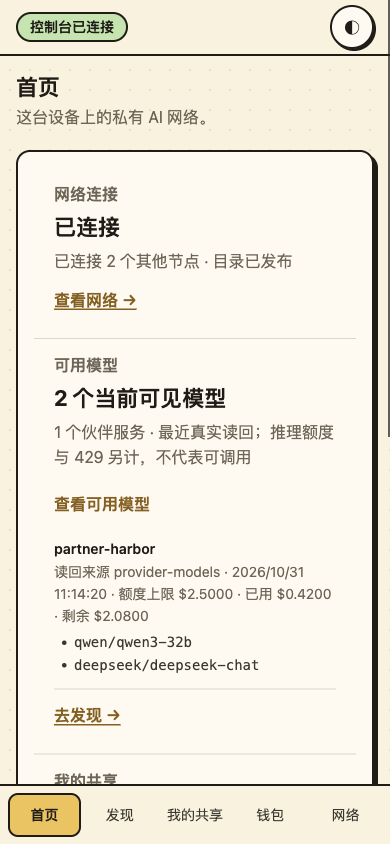
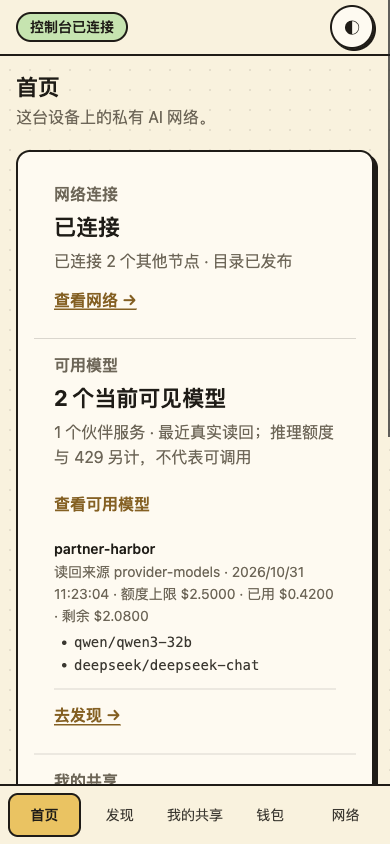
fix(console): require a provable evidence window and a connected provider
- readAt must exist, parse and not be in the future; expiresAt must exist,
  parse, be >= readAt, be in the future and fit the backend's 5 minute TTL.
  A missing/invalid/future readAt or an over-long window stays unknown; a
  future expiry is normal TTL and still counts.
- paused, degraded, disabled, identity-mismatch or revoked providers never
  count toward the home model total; their historical list is shown only as
  diagnosis and labelled as such, and counting resumes only with a new
  current readback.
- limit.spent still leaves the list visible and is reported separately.
- behaviour tests add future/invalid readAt, expiry before readAt, over-window,
  exact 5 minute boundary, past expiry, future expiry, all inactive statuses,
  paused+connected mixing and resume; docs and paused fixture screenshot
  updated.

Changed region(s): [[0.3077, 0.6777, 0.8615, 0.7085], [0.1846, 0.6777, 0.2769, 0.7085]]

diff --git a/plugin/console/providers.test.js b/plugin/console/providers.test.js
@@ -406,97 +406,113 @@ test("all shipped workflow DOM avoids HTML injection, remote resources and brows
 });
 
 describe("available-model evidence (simulated status.providers, no backend)", () => {
+  const NOW = Date.parse("2026-10-31T00:10:00.000Z");
+  const iso = (offsetMs) => new Date(NOW + offsetMs).toISOString();
   const evidence = (over = {}) => ({
-    status: "current", source: "provider-models", readAt: "2026-10-31T00:00:00.000Z", expiresAt: "2099-01-01T00:00:00.000Z",
+    status: "current", source: "provider-models", readAt: iso(-60_000), expiresAt: iso(4 * 60_000),
     models: ["qwen/qwen3-32b", "deepseek/deepseek-chat"], modelCount: 2, callable: "yes",
     identity: { hostname: "partner-harbor", virtualIpv4: null, fingerprint: null },
     generation: 3, keyRef: "provider-keys.json#p1", keyGeneration: 2, error: null, ...over,
   });
   const provider = (over = {}) => ({ id: "p1", status: "connected", fingerprint: { hostname: "partner-harbor" }, modelsEvidence: evidence(), ...over });
+  const summaryOf = (rows) => modelEvidenceSummary(rows, NOW);
 
-  test("only current, callable evidence with a finite count counts", () => {
-    const summary = modelEvidenceSummary([provider()]);
+  test("only a current, fresh, connected record with finite count counts", () => {
+    const summary = summaryOf([provider()]);
     expect(summary).toMatchObject({ state: "current", count: 2, providers: 1 });
     expect(summary.label).toBe("2 个当前可见模型");
     expect(summary.detail).toContain("最近真实读回");
     expect(summary.detail).toContain("推理额度与 429 另计");
     expect(summary.entries[0].models).toEqual(["qwen/qwen3-32b", "deepseek/deepseek-chat"]);
-    expect(modelEvidenceSummary([provider(), provider({ id: "p2", modelsEvidence: evidence({ modelCount: 5, models: [] }) })])).toMatchObject({ count: 7, providers: 2 });
+    expect(summary.entries[0].counted).toBeTrue();
+    expect(summaryOf([provider(), provider({ id: "p2", modelsEvidence: evidence({ modelCount: 5, models: [] }) })])).toMatchObject({ count: 7, providers: 2 });
   });
 
   test("legacy provider.models and authorization lists never become a callable count", () => {
-    // A legacy snapshot exists, but there is no evidence record at all.
-    expect(modelEvidenceSummary([{ id: "p1", status: "connected", models: ["a/one", "b/two"] }]))
+    expect(summaryOf([{ id: "p1", status: "connected", models: ["a/one", "b/two"] }]))
       .toMatchObject({ state: "unknown", count: 0, label: "尚未确认" });
-    expect(modelEvidenceSummary([{ id: "p1", models: ["a/one"], modelsEvidence: evidence({ status: "unknown", callable: "unknown", modelCount: null }) }]))
+    expect(summaryOf([{ id: "p1", models: ["a/one"], modelsEvidence: evidence({ status: "unknown", callable: "unknown", modelCount: null }) }]))
       .toMatchObject({ state: "unknown", count: 0 });
-    expect(modelEvidenceSummary([{ id: "p1", models: ["a/one"], modelsEvidence: evidence({ callable: "unknown" }) }]))
+    expect(summaryOf([{ id: "p1", models: ["a/one"], modelsEvidence: evidence({ callable: "unknown" }) }]))
       .toMatchObject({ state: "unknown", count: 0 });
-    expect(modelEvidenceSummary([{ id: "p1", models: ["a/one"], modelsEvidence: evidence({ modelCount: null }) }]))
+    expect(summaryOf([{ id: "p1", models: ["a/one"], modelsEvidence: evidence({ modelCount: null }) }]))
       .toMatchObject({ state: "unknown", count: 0 });
   });
 
   test("stale evidence shows unknown plus the exact next step", () => {
-    const summary = modelEvidenceSummary([provider({ modelsEvidence: evidence({ status: "stale" }) })]);
+    const summary = summaryOf([provider({ modelsEvidence: evidence({ status: "stale" }) })]);
     expect(summary).toMatchObject({ state: "stale", count: 0, label: "模型清单已过期" });
     expect(summary.detail).toContain("重新读取可用模型");
     expect(summary.detail).toContain("过期清单不算可用");
-    expect(modelEvidenceSummary([])).toMatchObject({ state: "none", label: "尚未连接" });
+    expect(summaryOf([])).toMatchObject({ state: "none", label: "尚未连接" });
   });
 
-  test("missing or unparsable expiry is treated as unknown, not current", () => {
-    expect(modelEvidenceSummary([provider({ modelsEvidence: evidence({ expiresAt: null }) })])).toMatchObject({ state: "unknown", count: 0 });
-    expect(modelEvidenceSummary([provider({ modelsEvidence: evidence({ expiresAt: "not-a-date" }) })])).toMatchObject({ state: "unknown", count: 0 });
-    expect(modelEvidenceSummary([provider({ modelsEvidence: evidence({ expiresAt: "2999-01-01T00:00:00.000Z" }) })])).toMatchObject({ state: "current", count: 2 });
+  test("readAt must be a real past time inside a 5 minute window", () => {
+    // exactly 5 minutes is the contract boundary and is accepted
+    expect(summaryOf([provider({ modelsEvidence: evidence({ readAt: iso(-4 * 60_000), expiresAt: iso(60_000) }) })])).toMatchObject({ state: "current", count: 2 });
+    // future readAt is not trusted by this client, even if the backend tolerates a small skew
+    expect(summaryOf([provider({ modelsEvidence: evidence({ readAt: iso(60_000), expiresAt: iso(5 * 60_000) }) })])).toMatchObject({ state: "unknown", count: 0 });
+    // invalid or missing readAt
+    expect(summaryOf([provider({ modelsEvidence: evidence({ readAt: "not-a-date" }) })])).toMatchObject({ state: "unknown", count: 0 });
+    expect(summaryOf([provider({ modelsEvidence: evidence({ readAt: null }) })])).toMatchObject({ state: "unknown", count: 0 });
+    // expiry before readAt
+    expect(summaryOf([provider({ modelsEvidence: evidence({ readAt: iso(60_000), expiresAt: iso(30_000) }) })])).toMatchObject({ state: "unknown", count: 0 });
+    // window longer than the backend TTL is unknown, not silently current
+    expect(summaryOf([provider({ modelsEvidence: evidence({ readAt: iso(-6 * 60_000), expiresAt: iso(60_000) }) })])).toMatchObject({ state: "unknown", count: 0 });
+    // an ordinary expiry in the past is stale
+    expect(summaryOf([provider({ modelsEvidence: evidence({ readAt: iso(-6 * 60_000), expiresAt: iso(-60_000) }) })])).toMatchObject({ state: "stale", count: 0 });
+    // missing or unparsable expiry
+    expect(summaryOf([provider({ modelsEvidence: evidence({ expiresAt: null }) })])).toMatchObject({ state: "unknown", count: 0 });
+    expect(summaryOf([provider({ modelsEvidence: evidence({ expiresAt: "not-a-date" }) })])).toMatchObject({ state: "unknown", count: 0 });
+    // a future expiry is normal TTL and still counts
+    expect(summaryOf([provider({ modelsEvidence: evidence({ readAt: iso(-60_000), expiresAt: iso(4 * 60_000) }) })])).toMatchObject({ state: "current", count: 2 });
   });
 
-  test("a page left open past expiresAt stops counting the old list", () => {
-    const fresh = evidence({ expiresAt: "2026-10-31T00:05:00.000Z" });
-    const now = Date.parse("2026-10-31T00:04:59.000Z");
-    expect(modelEvidenceSummary([provider({ modelsEvidence: fresh })], now)).toMatchObject({ state: "current", count: 2 });
-    const later = Date.parse("2026-10-31T00:05:01.000Z");
-    const expired = modelEvidenceSummary([provider({ modelsEvidence: fresh })], later);
-    expect(expired).toMatchObject({ state: "stale", count: 0, label: "模型清单已过期" });
-    expect(expired.detail).toContain("重新读取可用模型");
+  test("paused, disabled, degraded or identity-mismatched connections do not count", () => {
+    for (const status of ["paused", "disabled", "degraded", "identity-mismatch", "revoked"]) {
+      const summary = summaryOf([provider({ status })]);
+      expect(summary, status).toMatchObject({ state: "inactive", count: 0, label: "0 个当前可见模型" });
+      expect(summary.detail, status).toContain("恢复连接并重新读取");
+      expect(summary.entries[0]).toMatchObject({ counted: false, status });
+      expect(summary.entries[0].models.length, status).toBeGreaterThan(0);
+    }
+    // after resuming, only a new current readback counts again
+    expect(summaryOf([provider()])).toMatchObject({ state: "current", count: 2 });
+  });
+
+  test("a paused provider does not hide a connected one", () => {
+    const summary = summaryOf([provider({ id: "paused", status: "paused" }), provider({ id: "live", modelsEvidence: evidence({ modelCount: 3, models: ["c/three"] }) })]);
+    expect(summary).toMatchObject({ state: "current", count: 3, providers: 1 });
+    expect(summary.detail).toContain("另有 1 个伙伴连接已暂停或降级，仅诊断");
+    expect(summary.entries.filter((row) => row.counted === false)).toHaveLength(1);
   });
 
   test("a visible list never overwrites an exhausted or unread quota", () => {
-    const spent = modelEvidenceSummary([{ ...provider(), limit: { costLimit: 2, cost: 2, costLeft: 0, spent: true } }]);
+    const spent = summaryOf([{ ...provider(), limit: { costLimit: 2, cost: 2, costLeft: 0, spent: true } }]);
     expect(spent).toMatchObject({ state: "current", count: 2, label: "2 个当前可见模型" });
     expect(spent.detail).toContain("额度已用尽（原生 429）");
     expect(spent.entries[0]).toMatchObject({ quota: "spent" });
     expect(spent.entries[0].quotaText).toContain("429");
 
-    const unknown = modelEvidenceSummary([provider()]);
+    const unknown = summaryOf([provider()]);
     expect(unknown.detail).toContain("额度待确认");
     expect(unknown.entries[0]).toMatchObject({ quota: "unknown" });
   });
 
   test("an empty or rejected readback gets its own next step, never a zero", () => {
-    const empty = modelEvidenceSummary([provider({ modelsEvidence: evidence({ models: [], modelCount: 0 }) })]);
+    const empty = summaryOf([provider({ modelsEvidence: evidence({ models: [], modelCount: 0 }) })]);
     expect(empty).toMatchObject({ state: "empty", count: 0, label: "已连接，但没有发现模型" });
     expect(empty.detail).toContain("核对模型范围与额度");
 
-    const denied = modelEvidenceSummary([provider({ modelsEvidence: evidence({ status: "unknown", callable: "no", modelCount: null, error: "401 rejected" }) })]);
+    const denied = summaryOf([provider({ modelsEvidence: evidence({ status: "unknown", callable: "no", modelCount: null, error: "401 rejected" }) })]);
     expect(denied).toMatchObject({ state: "denied", count: 0, label: "授权未通过" });
     expect(denied.detail).toContain("401/撤销");
     expect(denied.detail).not.toContain("0 个");
   });
 
   test("a changed key only counts after a new current readback", () => {
-    const changed = modelEvidenceSummary([provider({ modelsEvidence: evidence({ status: "stale", keyGeneration: 3, generation: 1 }) })]);
-    expect(changed).toMatchObject({ state: "stale", count: 0 });
-    const reread = modelEvidenceSummary([provider({ modelsEvidence: evidence({ status: "current", keyGeneration: 3, generation: 2 }) })]);
-    expect(reread).toMatchObject({ state: "current", count: 2 });
-  });
-
-  test("one stale provider does not hide a current one, and current wins the label", () => {
-    const summary = modelEvidenceSummary([
-      provider({ id: "stale", modelsEvidence: evidence({ status: "stale" }) }),
-      provider({ id: "live", modelsEvidence: evidence({ modelCount: 3, models: ["c/three"] }) }),
-    ]);
-    expect(summary).toMatchObject({ state: "current", count: 3, providers: 1 });
-    expect(summary.entries).toHaveLength(1);
+    expect(summaryOf([provider({ modelsEvidence: evidence({ status: "stale", keyGeneration: 3, generation: 1 }) })])).toMatchObject({ state: "stale", count: 0 });
+    expect(summaryOf([provider({ modelsEvidence: evidence({ status: "current", keyGeneration: 3, generation: 2 }) })])).toMatchObject({ state: "current", count: 2 });
   });
 });
 
@@ -507,7 +523,10 @@ describe("explicit model readback (simulated backend response shape)", () => {
     base.status.providers = [structuredClone(providerView)];
     return base;
   };
-  const evidence = (over = {}) => ({ status: "current", source: "provider-models", readAt: "2026-10-31T00:00:00.000Z", expiresAt: "2099-01-01T00:00:00.000Z", models: ["qwen/qwen3-32b"], modelCount: 1, callable: "yes", identity: null, generation: 1, keyRef: "provider-keys.json#provider-1", keyGeneration: 1, error: null, ...over });
+  const evidence = (over = {}) => {
+    const now = Date.now();
+    return { status: "current", source: "provider-models", readAt: new Date(now - 60_000).toISOString(), expiresAt: new Date(now + 4 * 60_000).toISOString(), models: ["qwen/qwen3-32b"], modelCount: 1, callable: "yes", identity: null, generation: 1, keyRef: "provider-keys.json#provider-1", keyGeneration: 1, error: null, ...over };
+  };
 
   test("provider-models refreshes the console state exactly like the contract asks", async () => {
     let refreshes = 0;

diff --git a/plugin/console/providers.js b/plugin/console/providers.js
@@ -61,6 +61,9 @@ const statusNames = { connected: "已连接", verified: "身份已接受", unver
  * Only a current, unexpired evidence record for the current key/identity is
  * shown; quota is reported separately (native 429 / unknown / not read).
  */
+/** Mirrors the backend's 5 minute evidence TTL; the client only narrows trust. */
+const EVIDENCE_TTL_MS = 5 * 60 * 1000;
+
 function quotaEvidence(provider) {
   const limit = record(provider?.limit);
   const knownCap = typeof limit.costLimit === "number" && Number.isFinite(limit.costLimit);
@@ -75,36 +78,53 @@ export function modelEvidenceSummary(providers, now = Date.now()) {
   const rows = items(providers).map((provider) => {
     const evidence = record(provider?.modelsEvidence);
     const hostname = provider?.fingerprint?.hostname || provider?.hostname || provider?.id || "伙伴服务";
-    // The backend owns freshness; this guard only stops a page that has been
-    // open past expiresAt from showing an old list as current.
-    const rawExpiry = typeof evidence.expiresAt === "string" ? Date.parse(evidence.expiresAt) : NaN;
-    // A current record without a usable expiry cannot be proven fresh; stay
-    // conservative instead of trusting it forever.
-    const freshness = Number.isFinite(rawExpiry) ? (rawExpiry <= now ? "expired" : "fresh") : "unknown";
-    return { hostname, evidence, freshness, quota: quotaEvidence(provider) };
+    // The backend promises a 5 minute TTL. A record can only be trusted when
+    // both timestamps exist, are ordered, are not in the future and fit that
+    // window; everything else stays unknown rather than guessing freshness.
+    const readMs = typeof evidence.readAt === "string" ? Date.parse(evidence.readAt) : NaN;
+    const expMs = typeof evidence.expiresAt === "string" ? Date.parse(evidence.expiresAt) : NaN;
+    let freshness = "unknown";
+    if (Number.isFinite(readMs) && readMs <= now && Number.isFinite(expMs) && expMs >= readMs) {
+      if (expMs - readMs > EVIDENCE_TTL_MS) freshness = "unknown";
+      else freshness = expMs <= now ? "expired" : "fresh";
+    }
+    return {
+      hostname,
+      evidence,
+      freshness,
+      status: typeof provider?.status === "string" ? provider.status : "unknown",
+      quota: quotaEvidence(provider),
+    };
   });
   if (!rows.length) {
     return { state: "none", count: 0, providers: 0, entries: [], label: "尚未连接", detail: "还没有连接伙伴服务；在“发现”核对身份后申请模型。" };
   }
-  const usable = rows.filter((row) => row.evidence.status === "current" && row.freshness === "fresh" && row.evidence.callable === "yes" && typeof row.evidence.modelCount === "number" && Number.isFinite(row.evidence.modelCount) && row.evidence.modelCount >= 0);
-  const denied = rows.some((row) => row.evidence.callable === "no" && row.evidence.status !== "stale");
+  const eligible = rows.filter((row) => row.evidence.status === "current" && row.freshness === "fresh" && row.evidence.callable === "yes" && typeof row.evidence.modelCount === "number" && Number.isFinite(row.evidence.modelCount) && row.evidence.modelCount >= 0);
+  // A paused, disabled, degraded or identity-mismatched connection keeps its
+  // historical list for diagnosis, but it is not a current usable model source.
+  const usable = eligible.filter((row) => row.status === "connected");
+  const inactive = eligible.filter((row) => row.status !== "connected");
+  const entry = (row, counted) => ({
+    hostname: row.hostname,
+    count: row.evidence.modelCount,
+    models: items(row.evidence.models).filter((model) => typeof model === "string"),
+    readAt: typeof row.evidence.readAt === "string" ? row.evidence.readAt : null,
+    source: typeof row.evidence.source === "string" ? row.evidence.source : null,
+    quota: row.quota.state,
+    quotaText: row.quota.text,
+    counted,
+    status: row.status,
+  });
   if (usable.length) {
     const count = usable.reduce((total, row) => total + row.evidence.modelCount, 0);
     const spent = usable.some((row) => row.quota.state === "spent");
     const unknownQuota = usable.some((row) => row.quota.state === "unknown");
     const quotaNote = spent ? "；有伙伴额度已用尽（原生 429）" : unknownQuota ? "；额度待确认" : "";
-    const entries = usable.map((row) => ({
-      hostname: row.hostname,
-      count: row.evidence.modelCount,
-      models: items(row.evidence.models).filter((model) => typeof model === "string"),
-      readAt: typeof row.evidence.readAt === "string" ? row.evidence.readAt : null,
-      source: typeof row.evidence.source === "string" ? row.evidence.source : null,
-      quota: row.quota.state,
-      quotaText: row.quota.text,
-    }));
+    const pausedNote = inactive.length ? `；另有 ${inactive.length} 个伙伴连接已暂停或降级，仅诊断` : "";
     if (count === 0) {
       return {
-        state: "empty", count: 0, providers: usable.length, entries,
+        state: "empty", count: 0, providers: usable.length,
+        entries: [...usable.map((row) => entry(row, true)), ...inactive.map((row) => entry(row, false))],
         label: "已连接，但没有发现模型",
         detail: "真实读回成功但清单为空；请在共享方核对模型范围与额度，或稍后重新读取。",
       };
@@ -114,10 +134,21 @@ export function modelEvidenceSummary(providers, now = Date.now()) {
       count,
       providers: usable.length,
       label: `${count} 个当前可见模型`,
-      detail: `${usable.length} 个伙伴服务 · 最近真实读回；推理额度与 429 另计，不代表可调用${quotaNote}`,
-      entries,
+      detail: `${usable.length} 个伙伴服务 · 最近真实读回；推理额度与 429 另计，不代表可调用${quotaNote}${pausedNote}`,
+      entries: [...usable.map((row) => entry(row, true)), ...inactive.map((row) => entry(row, false))],
     };
   }
+  if (inactive.length) {
+    return {
+      state: "inactive",
+      count: 0,
+      providers: inactive.length,
+      entries: inactive.map((row) => entry(row, false)),
+      label: "0 个当前可见模型",
+      detail: "伙伴连接已暂停、降级或身份不匹配；恢复连接并重新读取后再计入，历史清单只作诊断。",
+    };
+  }
+  const denied = rows.some((row) => row.evidence.callable === "no" && row.evidence.status !== "stale");
   if (denied) {
     const stale = rows.some((row) => row.evidence.status === "stale" || row.freshness === "expired");
     return {

diff --git a/plugin/scripts/console-preview.ts b/plugin/scripts/console-preview.ts
@@ -9,6 +9,7 @@
  *   bun run plugin/scripts/console-preview.ts --scenario configured --port 61390
  *   bun run plugin/scripts/console-preview.ts --scenario first-run --port 61391
  *   bun run plugin/scripts/console-preview.ts --scenario stale --port 61392
+ *   bun run plugin/scripts/console-preview.ts --scenario paused --port 61394
  */
 import { readFileSync } from "node:fs";
 import { resolve } from "node:path";
@@ -192,7 +193,16 @@ function staleEvidenceState() {
   provider.modelsEvidence = { ...provider.modelsEvidence, status: "stale", callable: "unknown", modelCount: null, models: [], readAt: "2026-10-30T21:00:00.000Z", expiresAt: "2026-10-30T21:05:00.000Z" };
   return state;
 }
-let current: any = scenario === "first-run" ? firstRunState() : scenario === "stale" ? staleEvidenceState() : configuredState();
+function pausedEvidenceState() {
+  const state = configuredState();
+  // Historical list kept for diagnosis, but the connection is not usable.
+  state.status.providers[0].status = "paused";
+  return state;
+}
+let current: any = scenario === "first-run" ? firstRunState()
+  : scenario === "stale" ? staleEvidenceState()
+  : scenario === "paused" ? pausedEvidenceState()
+  : configuredState();
 const csrf = "0".repeat(32);
 const instance = "preview-instance";
 

diff --git a/plugin/console/app.js b/plugin/console/app.js
@@ -313,7 +313,7 @@ function renderHome(state) {
   if (evidenceBox && evidenceList) {
     const summary = modelEvidenceSummary(list(object(state.status).providers));
     evidenceList.replaceChildren();
-    const usable = summary.state === "current" ? summary.entries : [];
+    const usable = ["current", "empty", "inactive"].includes(summary.state) ? summary.entries : [];
     show("home-models-evidence", usable.length > 0);
     for (const entry of usable) {
       const group = document.createElement("div");
@@ -324,6 +324,12 @@ function renderHome(state) {
       note.className = "muted";
       note.textContent = `${entry.source ? `读回来源 ${entry.source}` : "真实读回"}${entry.readAt ? ` · ${time(entry.readAt)}` : ""} · ${entry.quotaText}`;
       group.append(title, note);
+      if (entry.counted === false) {
+        const warning = document.createElement("p");
+        warning.className = "inline-warning";
+        warning.textContent = `连接状态 ${entry.status}：仅诊断，不计入当前可见模型。`;
+        group.append(warning);
+      }
       if (entry.models.length) {
         const ul = document.createElement("ul");
         for (const model of entry.models) {

diff --git a/plugin/console/app.test.js b/plugin/console/app.test.js
@@ -100,7 +100,7 @@ const configured = () => {
     id: "provider-1", status: "connected", fingerprint: { hostname: "partner-harbor" },
     models: ["legacy/not-callable"],
     modelsEvidence: {
-      status: "current", source: "provider-models", readAt: "2026-10-31T00:00:00.000Z", expiresAt: "2099-01-01T00:00:00.000Z",
+      status: "current", source: "provider-models", readAt: new Date(Date.now() - 60_000).toISOString(), expiresAt: new Date(Date.now() + 4 * 60_000).toISOString(),
       models: ["qwen/qwen3-32b", "deepseek/deepseek-chat"], modelCount: 2, callable: "yes",
       identity: { hostname: "partner-harbor", virtualIpv4: null, fingerprint: null },
       generation: 2, keyRef: "provider-keys.json#provider-1", keyGeneration: 1, error: null,

diff --git a/docs/phase10-a-model-evidence-ui.md b/docs/phase10-a-model-evidence-ui.md
@@ -13,6 +13,8 @@
 
 **VERIFIED（语义边界）**：`callable:"yes"` 只证明当前 Key 成功读到了远端 `/v1/models` 清单，**不代表推理可用或额度充足**。因此首页计数文案是「N 个当前可见模型」，详情明确“推理额度与 429 另计，不代表可调用”；`limit.spent` / `costLeft<=0` / 429 仍用既有 `provider.limit` 单独显示“额度已用尽（原生 429）”，不会被清单的 current 覆盖，也不会把 paused/revoked 洗成可用。
 
+**旧 head 回归证据**：`6388e6f` 的 `modelEvidenceSummary` 对“未来 `readAt` + `paused`”返回 `current / 1 个当前可见模型`（本轮实际运行旧文件得到），新 head 返回 `unknown` 或 `inactive`，对应用例见 §4。
+
 **REPRODUCED（fixture）**：current → 首页显示「2 个当前可见模型」，展开可见 `qwen/qwen3-32b`、`deepseek/deepseek-chat`，每行带读回来源/时间与“额度上限 $2.5000 · 已用 $0.4200 · 剩余 $2.0800”；stale → 「模型清单已过期」+“到「发现 → 我的连接」重新读取可用模型；过期清单不算可用。”，列表入口隐藏。
 
 **UNKNOWN**：真实 Magpie 0.1.2289 的读回、真实 `provider-models`/`provider-check` 响应、TTL 失效后的实际表现。PR #36 未合并，本分支没有接真实后端。
@@ -53,8 +55,10 @@ status.providers[].modelsEvidence = {
    - `modelsEvidence.status === "current"`
    - `modelsEvidence.callable === "yes"`
    - `modelCount` 是有限非负数
-   - 未过期且可证明：`expiresAt` 可解析且 `Date.parse(expiresAt) > now`（页面长时间停留的兜底；后端仍拥有 freshness 定义）。`expiresAt` 缺失或不可解析 → 保守视为 `unknown`，不计入，并给“重新读取”的下一步。
+   - **时间可证明**：`readAt` 与 `expiresAt` 都存在、可解析；`readAt <= now`（未来 `readAt` 一律 unknown，即使后端容忍 +60s 时钟偏差）；`expiresAt >= readAt`；`expiresAt > now`；有效窗口 `expiresAt - readAt <= 5min`（与后端 TTL 契约一致，正好 5 分钟算有效）。任一条不满足 → `unknown`，不计入，并给“重新读取”的下一步。未来 `expiresAt` 只是正常 TTL，允许计数。
+   - **连接状态**：只有 `provider.status === "connected"` 才计数。`paused` / `degraded` / `disabled` / `identity-mismatch` / `revoked` 一律不计；它们的最近清单只作为诊断显示，并标注“仅诊断，不计入当前可见模型”。恢复连接后需要新的有效读回才重新计数；`limit.spent` 不抹掉清单（额度维度单独显示）。
 3. 有可用 → `current`，标题「N 个当前可见模型」，详情「M 个伙伴服务 · 最近真实读回；推理额度与 429 另计，不代表可调用」，可展开列表；额度状态单独标注（正常/已用尽/待确认）。`modelCount === 0` 时为 `empty`：「已连接，但没有发现模型」+ 核对模型范围与额度。
+3b. 有当前证据但连接不是 `connected` → `inactive`：「0 个当前可见模型」+“恢复连接并重新读取后再计入，历史清单只作诊断”，列表展示历史清单并逐条标 `仅诊断`。
 4. 有证据但 `callable === "no"`（401/撤销）→ `denied`：「授权未通过」+ 核验密钥与额度，不用 0 代替；若同时 stale 则显示过期。
 5. 无可用但存在 `stale` 或已过期 → 「模型清单已过期」+ 下一步“到「发现 → 我的连接」重新读取可用模型；过期清单不算可用。”
 6. 其余 → 「尚未确认」+ 下一步“到「发现 → 我的连接」读取可用模型；读取前不会计入可用数。”
@@ -82,7 +86,7 @@ status.providers[].modelsEvidence = {
 
 ```bash
 cd plugin
-bun test ./console     # 83 pass / 0 fail / 632 assertions
+bun test ./console     # 84 pass / 0 fail / 662 assertions
 bun run typecheck      # clean
 bun run secret-scan    # PASS
 ```
@@ -94,7 +98,9 @@ bun run secret-scan    # PASS
   - legacy `provider.models` 存在但无 evidence → `unknown`、0；evidence 非 current / callable 非 yes / count null 同样不计；
   - stale → 「模型清单已过期」+ 下一步文案；
   - 一个 stale + 一个 current → 只计 current；
-  - 页面停留超过 `expiresAt` → 自动转为 stale；`expiresAt` 缺失/不可解析 → `unknown` 不计；未来时间 → 正常计数；
+  - 页面停留超过 `expiresAt` → 自动转为 stale；`expiresAt` 缺失/不可解析 → `unknown` 不计；未来 `expiresAt` → 正常计数；
+  - `readAt` 在未来 / 非法 / 缺失 → `unknown` 不计；`expiresAt < readAt` → `unknown`；窗口 > 5min → `unknown`；正好 5min → 计数；
+  - `paused/disabled/degraded/identity-mismatch/revoked` → `inactive`、计数 0、历史清单只诊断；恢复后需新的 current 读回；
   - current + `limit.spent` / `costLeft<=0` → 仍显示清单数，但额度行明确“额度已用尽（原生 429）”；未读额度 → “额度待确认”；
   - current 但 `modelCount === 0` → “已连接，但没有发现模型”；`callable:"no"`（401/撤销）→ “授权未通过”，不用 0；
   - 换 Key（`keyGeneration` 变化）→ `stale` 不计，只有新的 current 读回才重新计数；
@@ -110,8 +116,9 @@ bun run secret-scan    # PASS
 
 `docs/phase10-a-model-evidence-ui/`：
 
-- `current-1440-light.png`：展开的可用模型列表（来源 `provider-models`、读回时间）；
+- `current-1440-light.png`：展开的可用模型列表（来源 `provider-models`、读回时间、额度行）；
 - `stale-1440-light.png`：过期态与下一步；
+- `paused-1440-light.png`：连接暂停时“0 个当前可见模型”，历史清单标注“仅诊断”；
 - `current-390-light.png`：窄屏展开列表。
 
 复现：`bun run plugin/scripts/console-preview.ts --scenario configured --port 61392` / `--scenario stale --port 61393`（预览服务器是开发夹具，合成数据，不是真实节点）。
